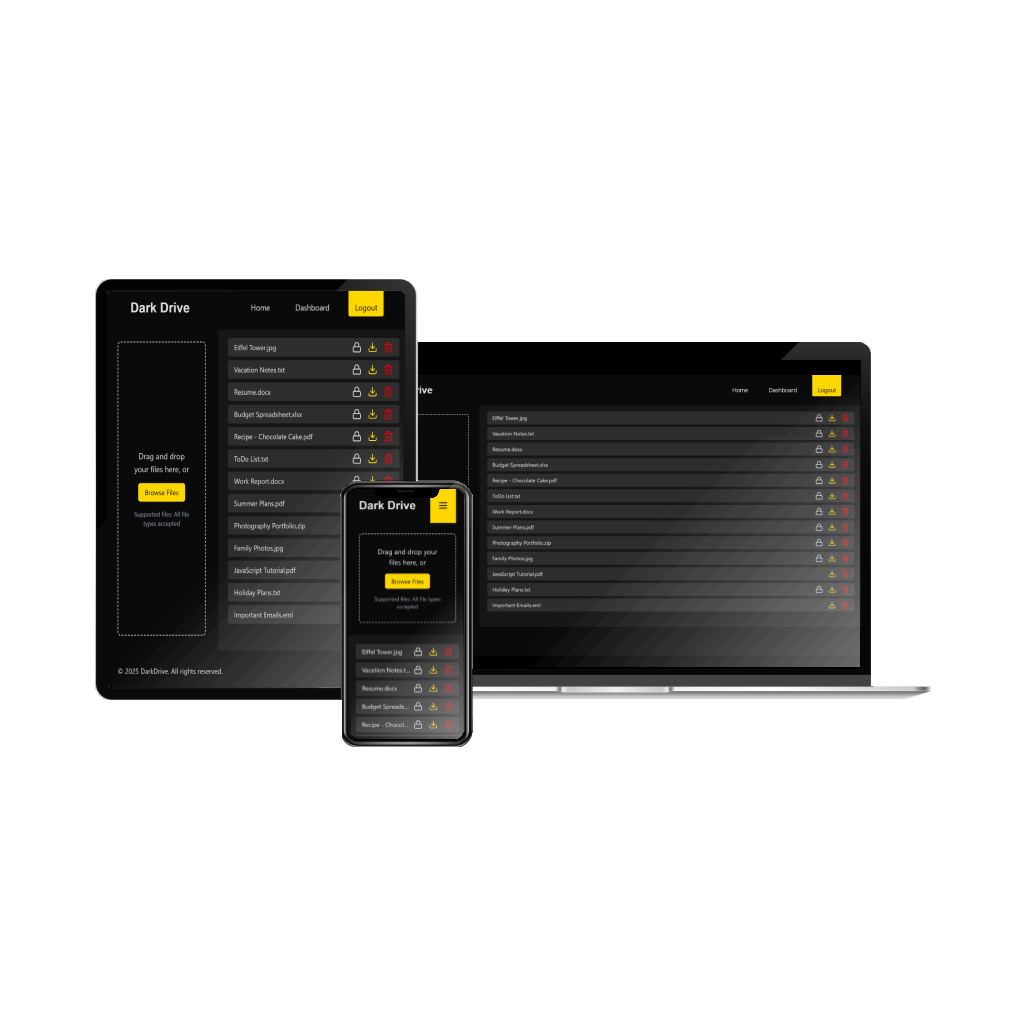
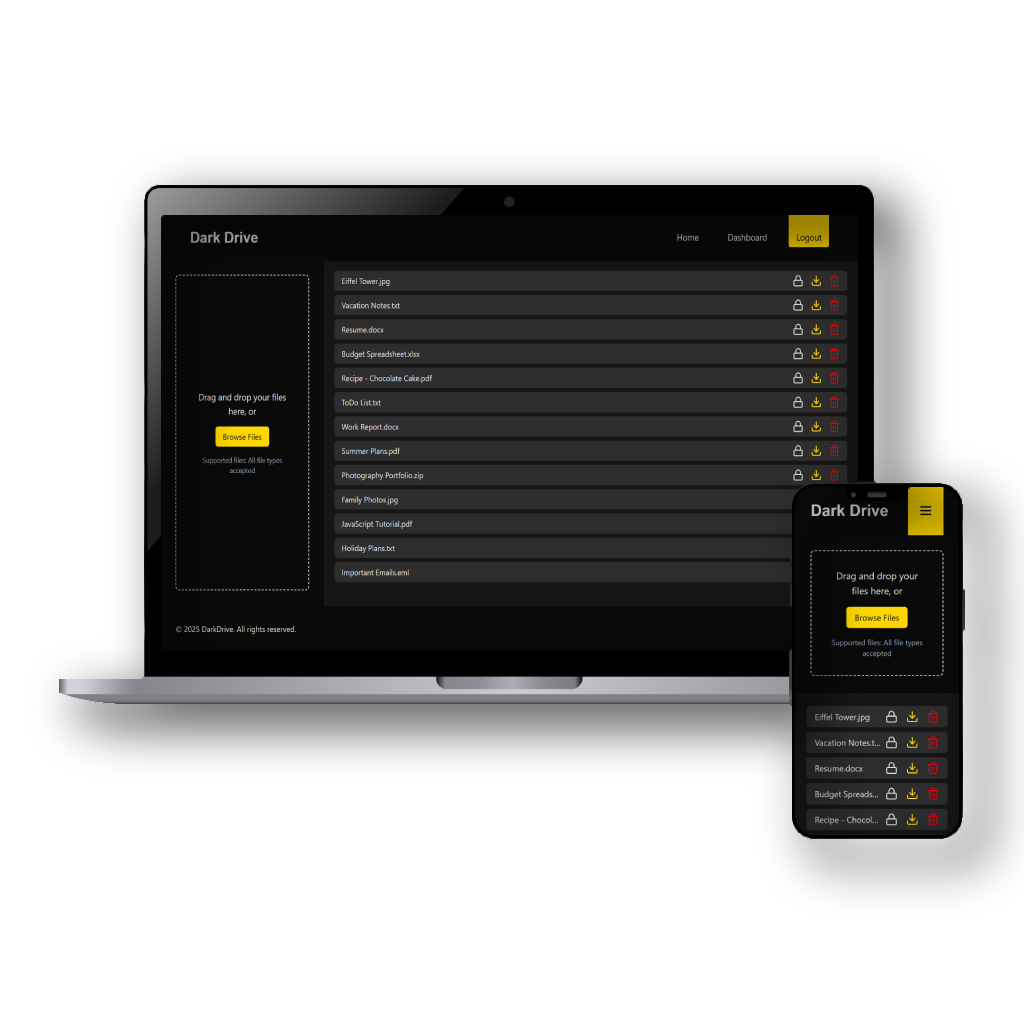
Minor aesthetic changes

diff --git a/src/pages/Home.jsx b/src/pages/Home.jsx
@@ -12,9 +12,9 @@ const Home = () => {
 					backgroundSize: "cover",
 					backgroundPosition: "center",
 				}}
-				className='grid sm:grid-cols-2 p-8 sm:gap-32 sm:p-16 bg-cover bg-center min-h-fit h-[44rem] items-center mt-16'
+				className='grid lg:grid-cols-2 p-8 lg:gap-32 sm:px-16 bg-cover bg-center items-center mt-22'
 			>
-				<div className='flex flex-col items-center justify-center gap-8 bg-white/40 p-8 sm:p-16 text-center rounded-lg'>
+				<div className='flex flex-col items-center justify-center lg:gap-8 backdrop-blur-sm p-8 sm:p-16 text-center rounded-lg'>
 					<h1 className='font-display text-background'>Welcome To DarkDrive</h1>
 					<h2 className='text-background'>
 						Your Files. Your Rules. With end-to-end encryption built in, your files are locked
@@ -27,11 +27,11 @@ const Home = () => {
 				</div>
 				<img src={Mockup} className='hidden sm:block' />
 			</span>
-			<section className='grid md:grid-cols-2 items-center justify-center gap-8 py-8'>
+			<section className='grid lg:grid-cols-2 items-center justify-center gap-8 py-8'>
 				<aside className='flex flex-col items-center justify-center p-8'>
-					<div className='flex flex-col gap-8 rounded-3xl p-8 py-12 backdrop-blur-sm'>
+					<div className='flex flex-col gap-8 rounded-3xl p-4 backdrop-blur-sm'>
 						<h1 className='text-accent'>What is DarkDrive?</h1>
-						<p className='text-lg'>
+						<p className='text-sm md:text-base lg:text-lg'>
 							DarkDrive is a decentralized file-sharing system that lets you upload and download
 							files securely across a peer-to-peer network. With no central servers, it’s resilient,
 							private, and nearly impossible to take down. Share and access files freely—without
@@ -52,17 +52,17 @@ const Home = () => {
 					<Card
 						icon='fa-solid fa-lock'
 						heading='Redundant Encryption'
-						paragraph='Each file is encrypted with a unique key, ensuring maximum security and protection.'
+						paragraph='Files can be encrypted with a password, ensuring maximum security and smooth user experience.'
 					/>
 					<Card
 						icon='fa-solid fa-database'
 						heading='Secure Storage'
-						paragraph='Encrypted files are safely stored, while plaintext versions are immediately erased.'
+						paragraph='Encrypted files are safely stored, with content visible only to the user.'
 					/>
 					<Card
 						icon='fa-solid fa-key'
 						heading='Full Access Control'
-						paragraph='Users receive an encryption key and token, maintaining full control over their files.'
+						paragraph='Users decide a password per file, maintaining full control over their files.'
 					/>
 				</aside>
 			</section>

diff --git a/src/index.css b/src/index.css
@@ -8,12 +8,13 @@
 	--color-accent: #ffd700; /* Additional accents (gold) */
 	--color-highlight: #ffc700; /* Highlights (gold) */
 
-	--font-display: helvetica, sans-serif;
+	--font-display: "Cormorant", serif;
+	--font-roboto: roboto, sans-serif;
 }
 
 @layer base {
 	body {
-		@apply text-tertiary bg-background;
+		@apply text-tertiary bg-background font-roboto;
 	}
 }
 
@@ -23,7 +24,7 @@
 	}
 
 	h2 {
-		@apply text-2xl text-center;
+		@apply text-lg sm:text-xl md:text-2xl text-center;
 	}
 
 	nav {

diff --git a/src/components/Card.jsx b/src/components/Card.jsx
@@ -1,6 +1,6 @@
 const Card = ({ icon, heading, paragraph }) => {
 	return (
-		<div className='flex flex-col items-center justify-center text-center w-3/4 bg-primary rounded-2xl h-48 p-8 gap-2'>
+		<div className='flex flex-col items-center justify-center text-center w-3/4 bg-primary rounded-2xl min-h-fit h-48 p-8 gap-2'>
 			<i className={`${icon} text-2xl`}></i>
 			<h2 className='text-xl'>{heading}</h2>
 			<p className='text-sm'>{paragraph}</p>

diff --git a/index.html b/index.html
@@ -7,7 +7,7 @@
 			href="https://cdnjs.cloudflare.com/ajax/libs/font-awesome/6.5.1/css/all.min.css"
 		/>
 		<link
-			href="https://fonts.googleapis.com/css2?family=Kaisei+Opti&display=swap"
+			href="https://fonts.googleapis.com/css2?family=Cormorant:ital,wght@700&display=swap"
 			rel="stylesheet"
 		/>
 		<meta name="viewport" content="width=device-width, initial-scale=1.0" />

diff --git a/src/components/SignUp.jsx b/src/components/SignUp.jsx
@@ -1,7 +1,6 @@
 import React, { useState } from "react";
 import { signupUser } from "../api/auth";
 import VerificationModal from "./VerificationModal";
-// import "./SignUpPage.css";
 
 const SignUpPage = () => {
 	const [showModal, setShowModal] = useState(false);

diff --git a/src/components/Navbar.jsx b/src/components/Navbar.jsx
@@ -51,7 +51,7 @@ const Navbar = () => {
 		<>
 			<nav className='fixed w-full z-20'>
 				<Link to='/'>
-					<h1 className='font-display'>Dark Drive</h1>
+					<h1 className='font-display'>DarkDrive</h1>
 				</Link>
 				{isMobile ? (
 					<button
